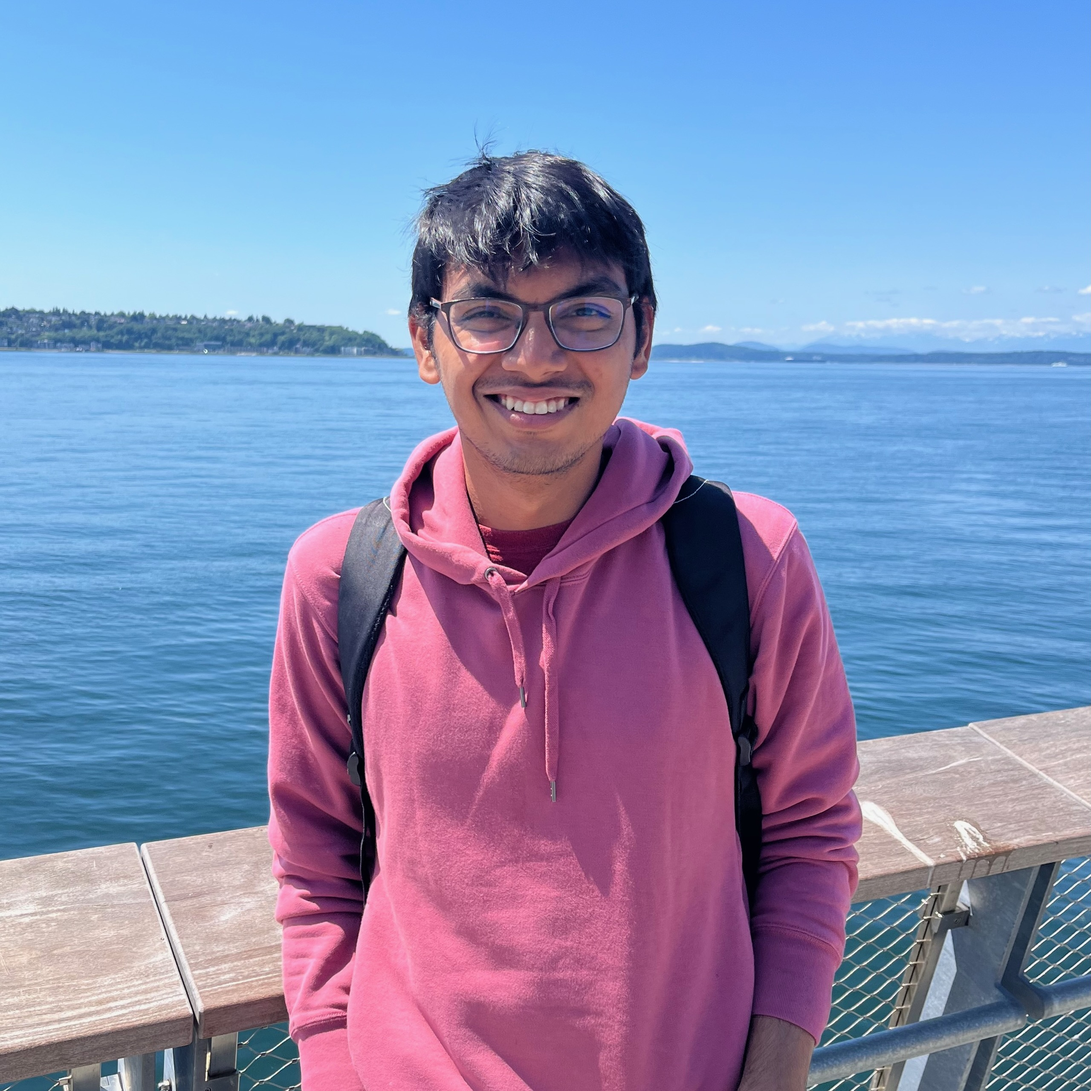
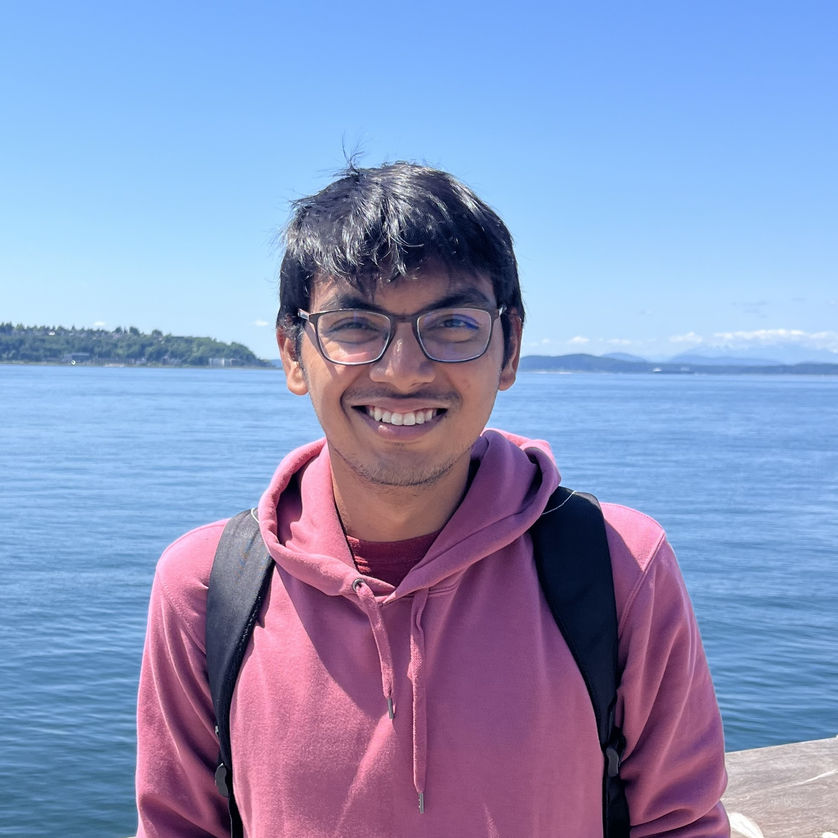
test

diff --git a/index.html b/index.html
@@ -6,7 +6,7 @@
 -->
 <html>
 	<head>
-		<title>Strata by HTML5 UP</title>
+		<title>Shagun Gupta</title>
 		<meta charset="utf-8" />
 		<meta name="viewport" content="width=device-width, initial-scale=1, user-scalable=no" />
 		<link rel="stylesheet" href="assets/css/main.css" />
@@ -19,7 +19,8 @@
 				<div class="inner">
 					<centre>
 					<a href="#three" class="image avatar"><img src="Attachments/Profile.jpeg" /></a>
-						<font size="+3">
+					<br>
+					<font size="+3">
 						<strong>Shagun Gupta</strong>
 					</font>
 					<font size="+1">
@@ -88,12 +89,9 @@
 				<!-- Three -->
 					<section id="three">
 						<h2>Get In Touch</h2>
-							<h3 class="icon solid fa-briefcase"></h3>
-										1234 Somewhere Rd.<br />
-										Nashville, TN 00000<br />
-										United States
-									<h3 class="icon solid fa-envelope"><span class="label">Email</span></h3>
-										<a href="mailto:shagungupta@utexas.edu">shagungupta@utexas.edu</a>
+							<i class="icon solid fa-envelope"></i>
+							<a href="mailto:shagungupta@utexas.edu">shagungupta@utexas.edu</a><br>
+							<i class="icon solid fa-briefcase"></i> ETC II, Ste. 5.112, 204 E Dean Keaton St, Austin, TX 78712
 					</section>
 			</div>
 
@@ -104,6 +102,7 @@
 						<li><a style="border-bottom: 0px;" href="https://scholar.google.com/citations?user=GdyOg6sAAAAJ&hl=en"><i class="ai ai-google-scholar ai-3x"></i></a></li>
 						<li><a href="https://github.com/Shagun-G" class="icon brands fa-github fa-2x"></a></li>
 						<li><a href="https://www.linkedin.com/in/shagun-gupta-90aa7b198/" class="icon brands fa-linkedin fa-2x"></a></li>
+						<a style="border-bottom: 0px;" href="mailto:shagungupta@utexas.edu"><i class="icon solid fa-envelope fa-3x"></i></a>
 					</ul>
 					<ul class="copyright">
 						<li>&copy; Untitled</li><li>Design: <a href="http://html5up.net">HTML5 UP</a></li>

diff --git a/assets/css/main.css b/assets/css/main.css
@@ -2639,7 +2639,7 @@ input, select, textarea {
 
 		#header .image.avatar {
 			margin: 0 0 1em 0;
-			width: 100%;
+			width: 70%;
 		}
 
 /* Footer */
